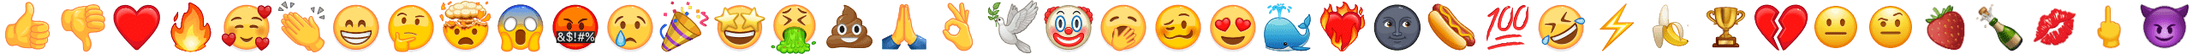
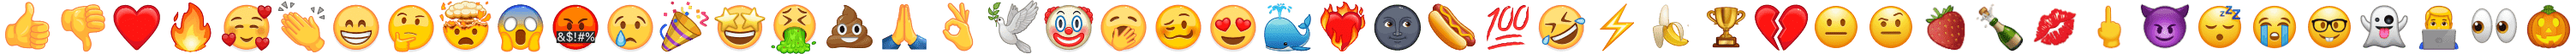
Reaction Selector: Update thumb sprite (#2114)

diff --git a/src/api/gramjs/apiBuilders/chats.ts b/src/api/gramjs/apiBuilders/chats.ts
@@ -460,7 +460,7 @@ export function buildApiChatReactions(availableReactions?: GramJs.TypeChatReacti
   if (availableReactions instanceof GramJs.ChatReactionsAll) {
     // TODO Hack before custom reactions are implemented
     // eslint-disable-next-line max-len
-    return ['👍', '👎', '❤', '🔥', '🥰', '👏', '😁', '🤔', '🤯', '😱', '🤬', '😢', '🎉', '🤩', '🤮', '💩', '🙏', '👌', '🕊', '🤡', '🥱', '🥴', '😍', '🐳', '❤🔥', '🌚', '🌭', '💯', '🤣', '⚡', '🍌', '🏆', '💔', '🤨', '😐', '🍓', '🍾', '💋', '🖕', '😈'];
+    return ['👍', '👎', '❤', '🔥', '🥰', '👏', '😁', '🤔', '🤯', '😱', '🤬', '😢', '🎉', '🤩', '🤮', '💩', '🙏', '👌', '🕊', '🤡', '🥱', '🥴', '😍', '🐳', '❤🔥', '🌚', '🌭', '💯', '🤣', '⚡', '🍌', '🏆', '💔', '🤨', '😐', '🍓', '🍾', '💋', '🖕', '😈', '😴', '😭', '🤓', '👻', '👨💻', '👀', '🎃'];
   }
   if (availableReactions instanceof GramJs.ChatReactionsSome) {
     return availableReactions.reactions.map(buildApiReaction).filter(Boolean);
